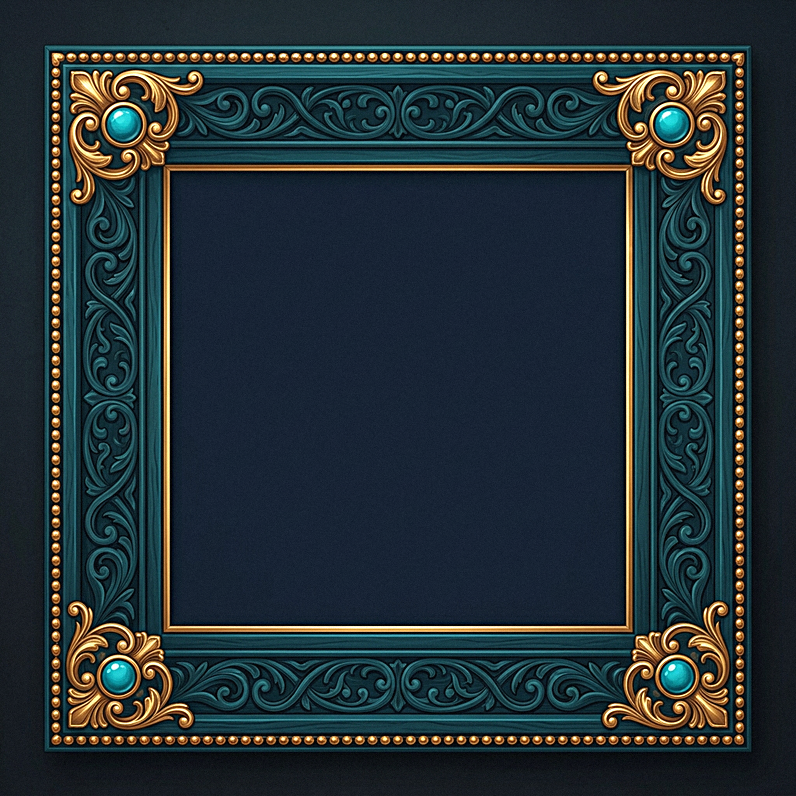
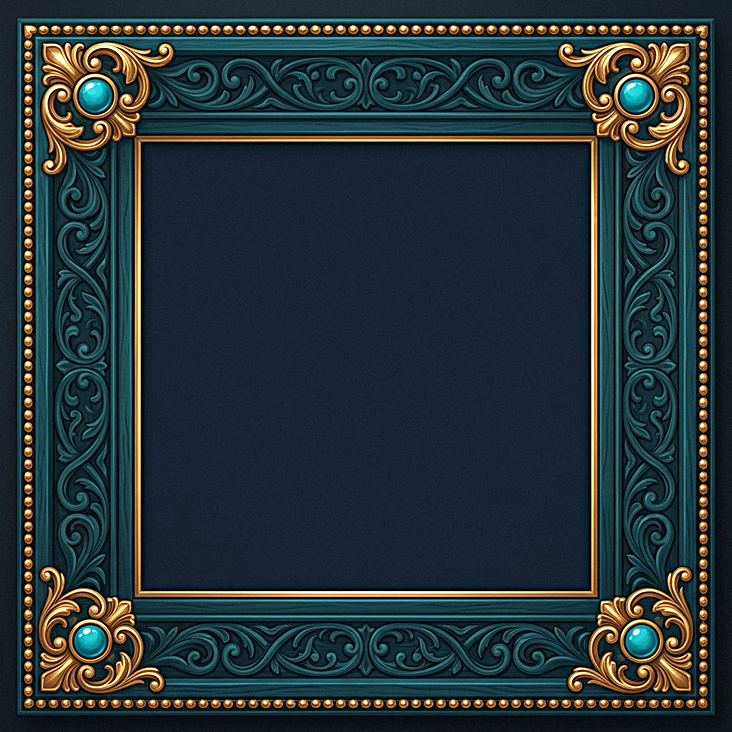
board: trim the case's empty margin and give the header its room back
The painted case carries a band of background around its moulding. Left in, it ate most of the ring the
board has for it and, at 34 dp, reached up over the level title and the two header buttons — the capture
showed them sliced.

So: the case plate is trimmed by 3.5 % a side before grading, the ring is 30 dp, and the board is 306 dp
(nine 34 dp cells) at (360, 74). That puts the case at 366 dp square, clear of the 44 dp header and
inside the 415 dp canvas, with the moulding filling its ring instead of hiding behind it.

diff --git a/godot-port/tools/import_plate_art.py b/godot-port/tools/import_plate_art.py
@@ -27,9 +27,12 @@ HERE = os.path.dirname(os.path.dirname(os.path.abspath(__file__)))
 SOURCE = os.path.join(HERE, "assets", "ui", "source")
 OUT = os.path.join(HERE, "assets", "ui")
 
-# Draw sizes in the port: the tray is 330 dp and the case 398 dp, so the plates ship at twice that.
-TRAY_SIZE = 660
-FRAME_SIZE = 796
+# Draw sizes in the port: the tray is 306 dp and the case 366 dp, so the plates ship at twice that.
+TRAY_SIZE = 612
+FRAME_SIZE = 732
+# The painted case has a band of empty background around its moulding. Left in, it eats most of the
+# 30 dp ring the board has for it and covers the header — so it is trimmed off before the resize.
+FRAME_TRIM = 0.035
 
 # How much of the painted tray is velvet: the rest is the moulding, which becomes the case instead.
 TRAY_KEEP = 0.60
@@ -64,6 +67,10 @@ def build_tray() -> Image.Image:
 
 def build_frame() -> Image.Image:
     source = _load("frame")
+    width, height = source.size
+    trim_x = int(width * FRAME_TRIM)
+    trim_y = int(height * FRAME_TRIM)
+    source = source.crop((trim_x, trim_y, width - trim_x, height - trim_y))
     frame = source.resize((FRAME_SIZE, FRAME_SIZE), Image.LANCZOS)
     frame = frame.filter(ImageFilter.UnsharpMask(radius=2.2, percent=62, threshold=2))
     # Brighten slightly: this is the gold in the room, and the hall behind it is dark.
